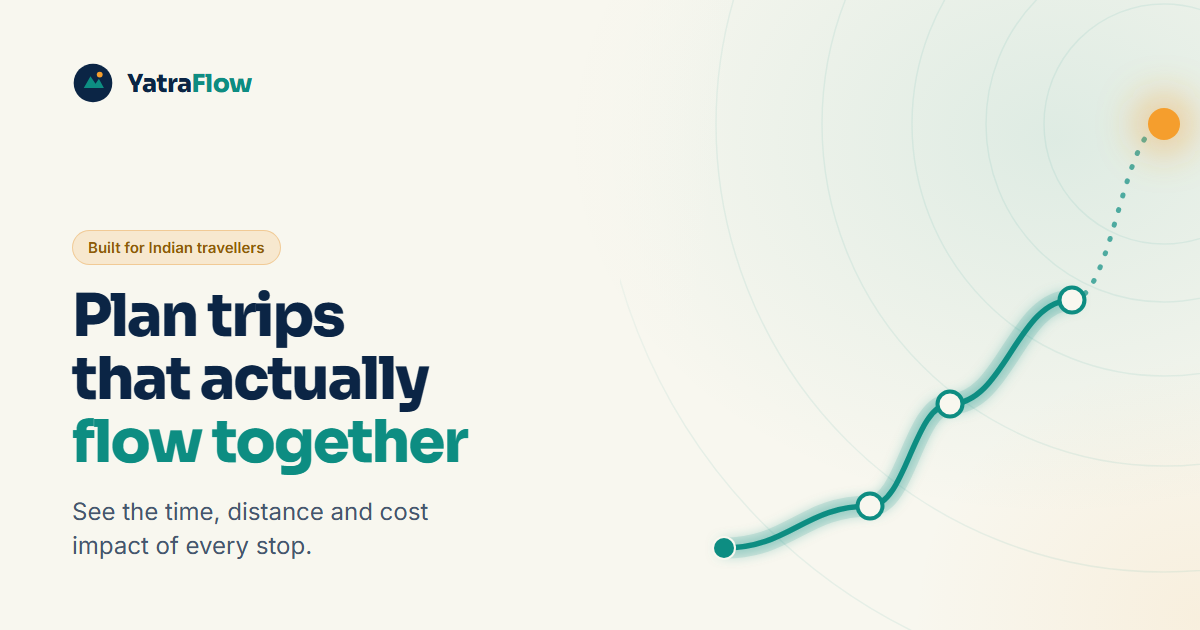
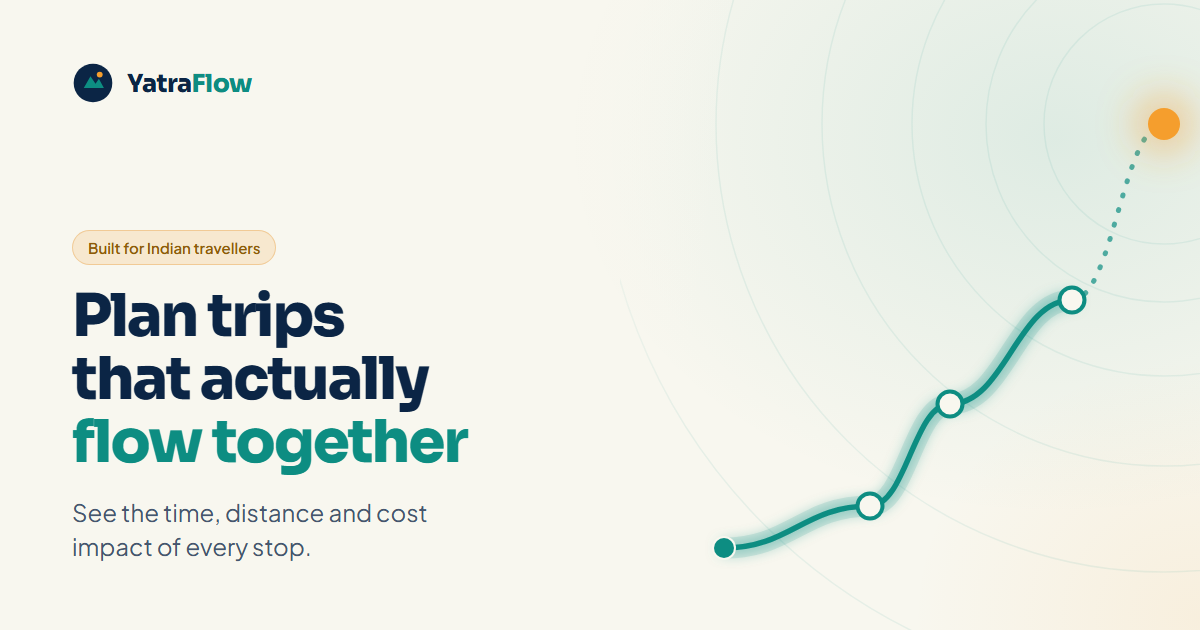
fix(brand): the OG share card renders the app's real font again
`public/og-default.png` is the 1200x630 card a shared itinerary shows when its
publication has no cover of its own. It was still rendered in Inter - the family
the product stopped using in #311 - so every social share has been showing a
typeface the app no longer uses.

This is the one item from the original design review that never got addressed.
It stalled because regenerating needs a browser; agent-browser is available in
this environment, so it is done now rather than deferred again.

Regenerated with the file's own documented command (headless Chrome, 15s
virtual-time budget so the CDN webfonts land before the capture). One thing worth
recording for the next regeneration: the command's `--screenshot=public/og-default.png`
path is RELATIVE, and Chrome does not resolve it from the shell's cwd - the first
run died with "Failed to write file public/og-default.png: The system cannot find
the path specified. (0x3)". An absolute --screenshot path works.

Verified by LOOKING at the output, not just its dimensions: 1200x630, and the
body copy renders in Plus Jakarta Sans rather than a fallback - which is the
failure mode the file's own comment calls out ("screenshotting early ships
fallback fonts and nothing in the gate would notice"). A size check is not
enough here, which is why the image was read back.

Also updates the card's font link, its body font-family and the comment naming
the faces, so the source and the artifact agree.

Changed region(s): [[0.0617, 0.7841, 0.37, 0.9048], [0.0617, 0.3619, 0.2467, 0.4222]]

diff --git a/scripts/og-default-card.html b/scripts/og-default-card.html
@@ -11,13 +11,13 @@
   "C:\Program Files\Google\Chrome\Application\chrome.exe" --headless=new --disable-gpu --hide-scrollbars --force-device-scale-factor=1 --window-size=1200,630 --virtual-time-budget=15000 --screenshot=public/og-default.png "file:///<repo>/scripts/og-default-card.html"
 
   A fixed canvas, so it positions absolutely and loads the app's own faces
-  (Sora for the headline, Inter for the rest). It is a picture, not a
+  (Sora for the headline, Plus Jakarta Sans for the rest). It is a picture, not a
   responsive surface — do not reuse it as app UI.
 -->
 <meta charset="utf-8" />
 <link rel="preconnect" href="https://fonts.googleapis.com" />
 <link rel="preconnect" href="https://fonts.gstatic.com" crossorigin />
-<link href="https://fonts.googleapis.com/css2?family=Sora:wght@600;700;800&family=Inter:wght@400;500;600;700&display=swap" rel="stylesheet" />
+<link href="https://fonts.googleapis.com/css2?family=Sora:wght@600;700;800&family=Plus+Jakarta+Sans:wght@400;500;600;700&display=swap" rel="stylesheet" />
 <style>
   :root {
     --cream: #F8F7EF;
@@ -31,7 +31,7 @@
   body {
     position: relative;
     background: var(--cream);
-    font-family: 'Inter', system-ui, sans-serif;
+    font-family: 'Plus Jakarta Sans', system-ui, sans-serif;
     color: var(--navy);
     -webkit-font-smoothing: antialiased;
   }
